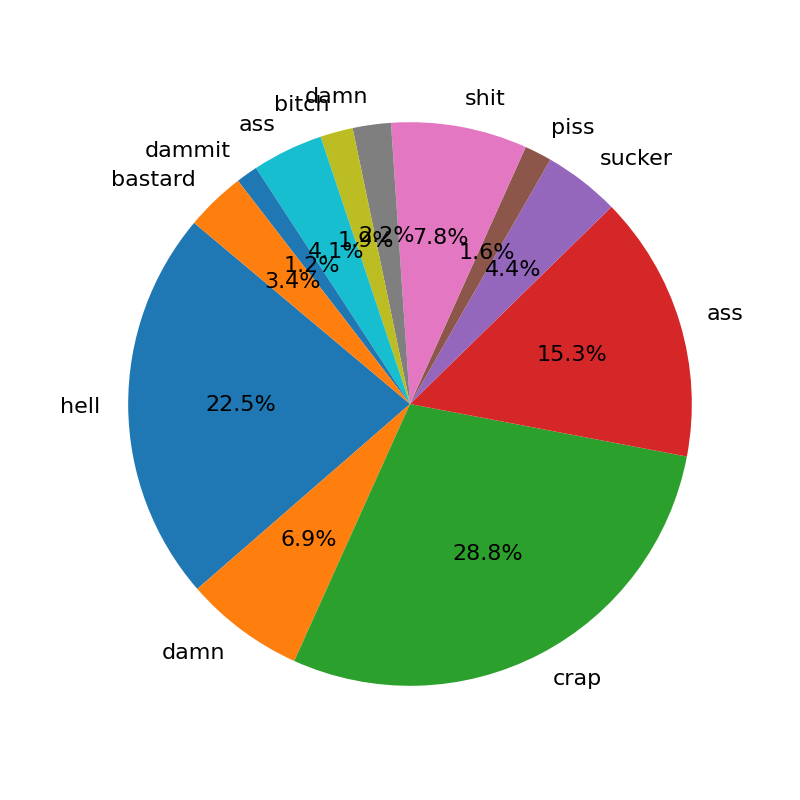
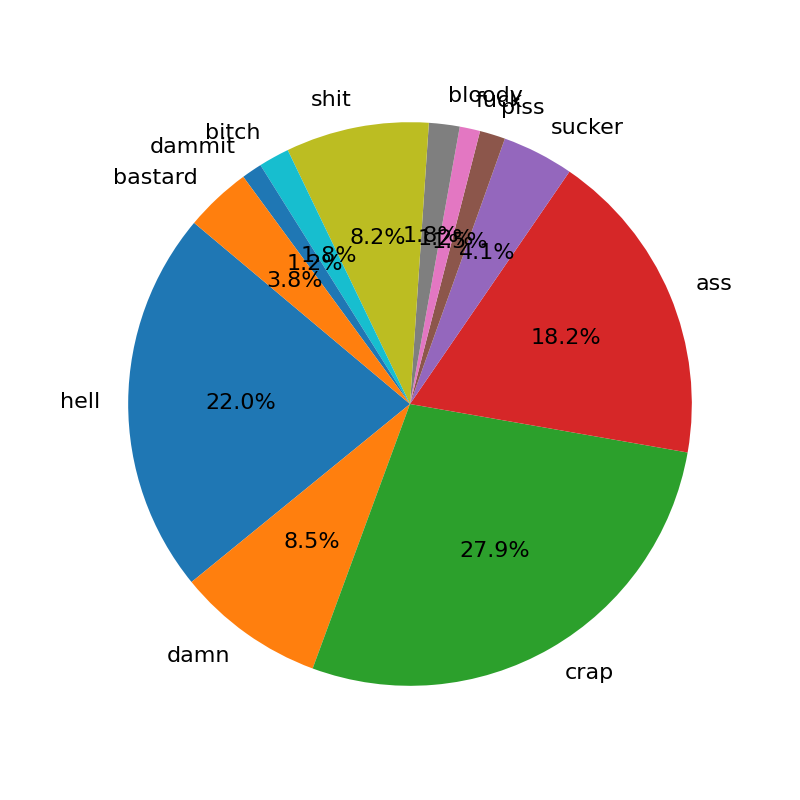
Monthly update: 2024-09-29

diff --git a/docs/static/js/app.js b/docs/static/js/app.js
@@ -41,12 +41,12 @@ async function fetch_markdown(url, table_elem, col_count, link = false) {
                     <div class="code-box">
                         <code><div class="line-num">${lineNumber}.</div>${code}</code>
                     </div>
-                    <footer class="text-muted small">Keyword: <i>"${keyword}"</i>. ${lastModifiedDate}</footer>
+                    <footer class="text-muted small">Keyword: <i>"${keyword}"</i></footer>
                 </div></a>
                 
             </div>`;
         });
-
+        document.getElementById('last-modified').innerHTML = lastModifiedDate;
         document.getElementById(table_elem).innerHTML = htmlTable;
     } catch (error) {
         console.error('Error fetching or converting Markdown:', error);

diff --git a/docs/index.html b/docs/index.html
@@ -34,6 +34,7 @@
                 <p>Compiling all the naughty naughty language in the Linux Kernel. Penguins included. Updates monthly.</p>
                 <p>We are reading from the stable kernel. <a href='https://git.kernel.org/pub/scm/linux/kernel/git/stable/linux-stable.git'>git.kernel.org</a></p>
                 <p><a href='https://github.com/tbwcjw/profanekernel/blob/main/LICENSE'>MIT License</a></p>
+                <p id="last-modified"></p>
                 
             </div>
         </div>

diff --git a/compile_results.py b/compile_results.py
@@ -40,7 +40,7 @@ def csv_to_md_table(csvf):
         for row in rows[1:]:
             markdown += "| " + " | ".join(row) + ' |\n'                 #row
     
-    markdown += f"\n\nLast updated: {datetime.now().strftime(f"%Y-%m-%d %H:%M:%S")}"
+    markdown += f"\n\nLast updated: {datetime.now().strftime('%Y-%m-%d %H:%M:%S')}"
     return markdown
 
 def write_to_readme(csvf, output):

diff --git a/main.py b/main.py
@@ -54,7 +54,7 @@ async def compile(result=None):
 async def main():
     pull_or_clone()
     result = await read.search_recurse(keywords_file, ignore_file, clone_dir, tree_url, csv_output, count_file, concurrent)
-    await compile()
+    await compile(result)
     
 
 if __name__ == "__main__":

diff --git a/results/PROFANITY.md b/results/PROFANITY.md
@@ -17,21 +17,21 @@
 | https://git.kernel.org/pub/scm/linux/kernel/git/stable/linux.git/tree/arch/arm64/kvm/vgic/vgic-irqfd.c | 126 | damn | * as long as the damn vgic is initialized. |
 | https://git.kernel.org/pub/scm/linux/kernel/git/stable/linux.git/tree/arch/arm64/lib/csum.c | 35 | piss | * however, have to be careful not to piss off KASAN, which means using |
 | https://git.kernel.org/pub/scm/linux/kernel/git/stable/linux.git/tree/arch/hexagon/kernel/smp.c | 28 | crap | * (which is prior to any of our smp_prepare_cpu crap), in order to set |
-| https://git.kernel.org/pub/scm/linux/kernel/git/stable/linux.git/tree/arch/hexagon/mm/init.c | 38 | Hell | * over until Hell freezes over.  Actual bound in years needs to be |
+| https://git.kernel.org/pub/scm/linux/kernel/git/stable/linux.git/tree/arch/hexagon/mm/init.c | 38 | hell | * over until Hell freezes over.  Actual bound in years needs to be |
 | https://git.kernel.org/pub/scm/linux/kernel/git/stable/linux.git/tree/arch/loongarch/lib/csum.c | 36 | piss | * however, have to be careful not to piss off KASAN, which means using |
 | https://git.kernel.org/pub/scm/linux/kernel/git/stable/linux.git/tree/arch/m68k/include/asm/sun3ints.h | 30 | fuck | /* master list of VME vectors -- don't fuck with this */ |
 | https://git.kernel.org/pub/scm/linux/kernel/git/stable/linux.git/tree/arch/m68k/include/asm/sun3xflop.h | 28 | crap | /* We don't need no stinkin' I/O port allocation crap. */ |
 | https://git.kernel.org/pub/scm/linux/kernel/git/stable/linux.git/tree/arch/m68k/mac/config.c | 593 | hell | * Quadra-style VIAs. A few models also have IDE from hell. |
 | https://git.kernel.org/pub/scm/linux/kernel/git/stable/linux.git/tree/arch/mips/dec/int-handler.S | 48 | hell | *    IRQ mask, that would make this routine slow as hell. |
-| https://git.kernel.org/pub/scm/linux/kernel/git/stable/linux.git/tree/arch/mips/dec/kn01-berr.c | 97 | Bloody | /* Bloody hardware doesn't record the address for reads... */ |
+| https://git.kernel.org/pub/scm/linux/kernel/git/stable/linux.git/tree/arch/mips/dec/kn01-berr.c | 97 | bloody | /* Bloody hardware doesn't record the address for reads... */ |
 | https://git.kernel.org/pub/scm/linux/kernel/git/stable/linux.git/tree/arch/mips/include/asm/mipsprom.h | 30 | shit | /* More PROM shit.  Probably has to do with VME RMW cycles??? */ |
-| https://git.kernel.org/pub/scm/linux/kernel/git/stable/linux.git/tree/arch/mips/include/asm/prefetch.h | 20 | Hell | * Hell (and the book on my shelf I can't open ...) know what the R8000 does. |
-| https://git.kernel.org/pub/scm/linux/kernel/git/stable/linux.git/tree/arch/mips/include/uapi/asm/bitfield.h | 13 | Damn | *  * Damn ...  bitfields depend from byteorder :-( |
+| https://git.kernel.org/pub/scm/linux/kernel/git/stable/linux.git/tree/arch/mips/include/asm/prefetch.h | 20 | hell | * Hell (and the book on my shelf I can't open ...) know what the R8000 does. |
+| https://git.kernel.org/pub/scm/linux/kernel/git/stable/linux.git/tree/arch/mips/include/uapi/asm/bitfield.h | 13 | damn | *  * Damn ...  bitfields depend from byteorder :-( |
 | https://git.kernel.org/pub/scm/linux/kernel/git/stable/linux.git/tree/arch/mips/kernel/genex.S | 72 | shit | * Big shit, we now may have two dirty primary cache lines for the same |
 | https://git.kernel.org/pub/scm/linux/kernel/git/stable/linux.git/tree/arch/mips/kernel/process.c | 657 | ass | * __get_wchan - a maintenance nightmare^W^Wpain in the ass ... |
 | https://git.kernel.org/pub/scm/linux/kernel/git/stable/linux.git/tree/arch/mips/kernel/unaligned.c | 573 | sucker | * cache coherence problem.  Die sucker, die ... |
-| https://git.kernel.org/pub/scm/linux/kernel/git/stable/linux.git/tree/arch/mips/kernel/unaligned.c | 1481 | sucker | * cache coherence problem.  Die sucker, die ... |
 | https://git.kernel.org/pub/scm/linux/kernel/git/stable/linux.git/tree/arch/mips/kernel/vmlinux.lds.S | 234 | crap | /* ABI crap starts here */ |
+| https://git.kernel.org/pub/scm/linux/kernel/git/stable/linux.git/tree/arch/mips/kernel/unaligned.c | 1481 | sucker | * cache coherence problem.  Die sucker, die ... |
 | https://git.kernel.org/pub/scm/linux/kernel/git/stable/linux.git/tree/arch/mips/mm/c-r4k.c | 1400 | bitch | * This is such a bitch, you'd think they would make it easy to do |
 | https://git.kernel.org/pub/scm/linux/kernel/git/stable/linux.git/tree/arch/mips/pci/fixup-ip32.c | 41 | crap | * right if there exists such a broken piece of crap. |
 | https://git.kernel.org/pub/scm/linux/kernel/git/stable/linux.git/tree/arch/powerpc/kernel/eeh_driver.c | 170 | ass | * This is just ass backwards. This maze has |
@@ -59,7 +59,7 @@
 | https://git.kernel.org/pub/scm/linux/kernel/git/stable/linux.git/tree/arch/sh/kernel/cpu/sh4/sq.c | 254 | hell | * queue, but considering the kobject hell we already have to deal with, |
 | https://git.kernel.org/pub/scm/linux/kernel/git/stable/linux.git/tree/arch/sparc/include/asm/floppy_32.h | 21 | crap | /* We don't need no stinkin' I/O port allocation crap. */ |
 | https://git.kernel.org/pub/scm/linux/kernel/git/stable/linux.git/tree/arch/sparc/kernel/pcic.c | 504 | shit | * to shit into regions like that. |
-| https://git.kernel.org/pub/scm/linux/kernel/git/stable/linux.git/tree/arch/sparc/kernel/traps_64.c | 315 | Shit | /* Shit... */ |
+| https://git.kernel.org/pub/scm/linux/kernel/git/stable/linux.git/tree/arch/sparc/kernel/traps_64.c | 315 | shit | /* Shit... */ |
 | https://git.kernel.org/pub/scm/linux/kernel/git/stable/linux.git/tree/arch/sparc/kernel/viohs.c | 683 | crap | * to be aware of this crap. |
 | https://git.kernel.org/pub/scm/linux/kernel/git/stable/linux.git/tree/arch/sparc/kernel/wof.S | 131 | hell | * and messy as all hell.  And difficult to follow if you |
 | https://git.kernel.org/pub/scm/linux/kernel/git/stable/linux.git/tree/arch/sparc/lib/checksum_32.S | 306 | shit | * give up.  I'm serious, I am going to kick the living shit |
@@ -70,14 +70,14 @@
 | https://git.kernel.org/pub/scm/linux/kernel/git/stable/linux.git/tree/arch/sparc/mm/srmmu.c | 1317 | crap | /* Clear any crap from the cache or else... */ |
 | https://git.kernel.org/pub/scm/linux/kernel/git/stable/linux.git/tree/arch/sparc/mm/ultra.S | 25 | shit | * in Microelectronics who refused to fix this shit. |
 | https://git.kernel.org/pub/scm/linux/kernel/git/stable/linux.git/tree/arch/um/drivers/daemon_kern.c | 32 | crap | /* We will free this pointer. If it contains crap we're burned. */ |
-| https://git.kernel.org/pub/scm/linux/kernel/git/stable/linux.git/tree/arch/x86/include/asm/debugreg.h | 26 | Damn | unsigned long val = 0;	/* Damn you, gcc! */ |
+| https://git.kernel.org/pub/scm/linux/kernel/git/stable/linux.git/tree/arch/x86/include/asm/debugreg.h | 26 | damn | unsigned long val = 0;	/* Damn you, gcc! */ |
 | https://git.kernel.org/pub/scm/linux/kernel/git/stable/linux.git/tree/arch/x86/include/asm/nospec-branch.h | 540 | hell | * (Implemented as CPP macros due to header hell.) |
-| https://git.kernel.org/pub/scm/linux/kernel/git/stable/linux.git/tree/arch/x86/include/asm/pci_x86.h | 94 | Crap | u32 miniport_data;		/* Crap */ |
+| https://git.kernel.org/pub/scm/linux/kernel/git/stable/linux.git/tree/arch/x86/include/asm/pci_x86.h | 94 | crap | u32 miniport_data;		/* Crap */ |
 | https://git.kernel.org/pub/scm/linux/kernel/git/stable/linux.git/tree/arch/x86/include/asm/preempt.h | 41 | hell | * must be macros to avoid header recursion hell |
 | https://git.kernel.org/pub/scm/linux/kernel/git/stable/linux.git/tree/arch/x86/include/asm/ptrace.h | 385 | hell | /* To avoid include hell, we can't include uaccess.h */ |
 | https://git.kernel.org/pub/scm/linux/kernel/git/stable/linux.git/tree/arch/x86/include/asm/trace/irq_vectors.h | 79 | hell | * The ifdef is required because that tracepoint macro hell emits tracepoint |
 | https://git.kernel.org/pub/scm/linux/kernel/git/stable/linux.git/tree/arch/x86/kernel/uprobes.c | 510 | hell | *   Evil SSE4.2 string comparison ops from hell. |
-| https://git.kernel.org/pub/scm/linux/kernel/git/stable/linux.git/tree/arch/x86/kernel/vm86_32.c | 671 | Damn | * Damn. This is incorrect: the 'sti' instruction should actually |
+| https://git.kernel.org/pub/scm/linux/kernel/git/stable/linux.git/tree/arch/x86/kernel/vm86_32.c | 671 | damn | * Damn. This is incorrect: the 'sti' instruction should actually |
 | https://git.kernel.org/pub/scm/linux/kernel/git/stable/linux.git/tree/arch/x86/kernel/cpu/mce/core.c | 1907 | crap | * by default and leave crap in there. Don't log: |
 | https://git.kernel.org/pub/scm/linux/kernel/git/stable/linux.git/tree/arch/x86/pci/irq.c | 433 | damn | * ALI pirq entries are damn ugly, and completely undocumented. |
 | https://git.kernel.org/pub/scm/linux/kernel/git/stable/linux.git/tree/arch/x86/platform/efi/efi_64.c | 313 | crap | * to virtual mode and would otherwise crap on us. |
@@ -91,7 +91,7 @@
 | https://git.kernel.org/pub/scm/linux/kernel/git/stable/linux.git/tree/Documentation/filesystems/ramfs-rootfs-initramfs.rst | 331 | hell | 5) Al Viro made the decision (quote: "tar is ugly as hell and not going to be |
 | https://git.kernel.org/pub/scm/linux/kernel/git/stable/linux.git/tree/Documentation/kernel-hacking/hacking.rst | 797 | damn | * Sun people can't spell worth damn. "compatability" indeed. |
 | https://git.kernel.org/pub/scm/linux/kernel/git/stable/linux.git/tree/Documentation/kernel-hacking/hacking.rst | 816 | shit | * give up.  I'm serious, I am going to kick the living shit |
-| https://git.kernel.org/pub/scm/linux/kernel/git/stable/linux.git/tree/Documentation/networking/arcnet-hardware.rst | 2442 | ASS | and "-2 46-86" beside C2. Between C1 and C6 "ASS 'Y 300163" and "@1986 |
+| https://git.kernel.org/pub/scm/linux/kernel/git/stable/linux.git/tree/Documentation/networking/arcnet-hardware.rst | 2442 | ass | and "-2 46-86" beside C2. Between C1 and C6 "ASS 'Y 300163" and "@1986 |
 | https://git.kernel.org/pub/scm/linux/kernel/git/stable/linux.git/tree/Documentation/process/coding-style.rst | 862 | hell | might look like a good thing, but it's confusing as hell when one reads the |
 | https://git.kernel.org/pub/scm/linux/kernel/git/stable/linux.git/tree/Documentation/process/handling-regressions.rst | 672 | dammit | And dammit, we upgrade the kernel ALL THE TIME without upgrading any |
 | https://git.kernel.org/pub/scm/linux/kernel/git/stable/linux.git/tree/Documentation/process/management-style.rst | 67 | bullshit | And people will even see that as true leadership (*cough* bullshit |
@@ -130,11 +130,11 @@
 | https://git.kernel.org/pub/scm/linux/kernel/git/stable/linux.git/tree/drivers/gpu/drm/nouveau/include/nvkm/subdev/clk.h | 113 | shit | *     bat-shit insane what-was-nouveau_hw.c code |
 | https://git.kernel.org/pub/scm/linux/kernel/git/stable/linux.git/tree/drivers/gpu/drm/nouveau/nvkm/subdev/instmem/nv40.c | 203 | crap | * 0x21000-0x40000: padding and some unknown crap |
 | https://git.kernel.org/pub/scm/linux/kernel/git/stable/linux.git/tree/drivers/gpu/drm/nouveau/nvkm/subdev/pmu/fuc/macros.fuc | 49 | fuck | #define NV_PPWR_INTR_EN_CLR_MASK                    /* fuck i hate envyas */ -1 |
-| https://git.kernel.org/pub/scm/linux/kernel/git/stable/linux.git/tree/drivers/greybus/es2.c | 330 | Crap | * Crap, pool is empty, complain to the syslog and go allocate one |
+| https://git.kernel.org/pub/scm/linux/kernel/git/stable/linux.git/tree/drivers/greybus/es2.c | 330 | crap | * Crap, pool is empty, complain to the syslog and go allocate one |
 | https://git.kernel.org/pub/scm/linux/kernel/git/stable/linux.git/tree/drivers/hwmon/abituguru.c | 1306 | crap | * anyways. If we read sensors/pwms not there we'll just read crap |
 | https://git.kernel.org/pub/scm/linux/kernel/git/stable/linux.git/tree/drivers/infiniband/hw/qib/qib_file_ops.c | 65 | shit | * This is really, really weird shit - write() and writev() here |
-| https://git.kernel.org/pub/scm/linux/kernel/git/stable/linux.git/tree/drivers/input/serio/hp_sdc_mlc.c | 111 | Bastard | printk(KERN_WARNING PREFIX "Bastard SDC reconfigured loop!\n"); |
-| https://git.kernel.org/pub/scm/linux/kernel/git/stable/linux.git/tree/drivers/input/serio/hp_sdc_mlc.c | 124 | Bastard | printk(KERN_WARNING PREFIX "Bastard SDC decided to reconfigure loop!\n"); |
+| https://git.kernel.org/pub/scm/linux/kernel/git/stable/linux.git/tree/drivers/input/serio/hp_sdc_mlc.c | 111 | bastard | printk(KERN_WARNING PREFIX "Bastard SDC reconfigured loop!\n"); |
+| https://git.kernel.org/pub/scm/linux/kernel/git/stable/linux.git/tree/drivers/input/serio/hp_sdc_mlc.c | 124 | bastard | printk(KERN_WARNING PREFIX "Bastard SDC decided to reconfigure loop!\n"); |
 | https://git.kernel.org/pub/scm/linux/kernel/git/stable/linux.git/tree/drivers/iommu/arm/arm-smmu-v3/arm-smmu-v3.c | 3953 | crap | /* CR2 (random crap) */ |
 | https://git.kernel.org/pub/scm/linux/kernel/git/stable/linux.git/tree/drivers/ipack/devices/scc2698.h | 27 | crap | u8 junk[8]; /* other crap for block control */ |
 | https://git.kernel.org/pub/scm/linux/kernel/git/stable/linux.git/tree/drivers/ipack/devices/scc2698.h | 34 | crap | u8 junk[8]; /* other crap for block control */ |
@@ -144,11 +144,11 @@
 | https://git.kernel.org/pub/scm/linux/kernel/git/stable/linux.git/tree/drivers/media/dvb-core/dvb_frontend.c | 2206 | crap | * return crap, if they don't check if the data is available |
 | https://git.kernel.org/pub/scm/linux/kernel/git/stable/linux.git/tree/drivers/media/dvb-core/dvb_frontend.c | 2387 | crap | * return crap, if they don't check if the data is available |
 | https://git.kernel.org/pub/scm/linux/kernel/git/stable/linux.git/tree/drivers/media/dvb-core/dvb_frontend.c | 2422 | crap | * return crap, if they don't check if the data is available |
-| https://git.kernel.org/pub/scm/linux/kernel/git/stable/linux.git/tree/drivers/media/dvb-frontends/drx39xyj/drx_driver.h | 907 | ASS | #define DRX_CFG_AUD_AUTOSOUND       (DRX_CFG_BASE +  8)	/* ASS & ASC         */ |
-| https://git.kernel.org/pub/scm/linux/kernel/git/stable/linux.git/tree/drivers/media/dvb-frontends/drx39xyj/drx_driver.h | 908 | ASS | #define DRX_CFG_AUD_ASS_THRES       (DRX_CFG_BASE +  9)	/* ASS Thresholds    */ |
-| https://git.kernel.org/pub/scm/linux/kernel/git/stable/linux.git/tree/drivers/media/dvb-frontends/drx39xyj/drx_driver.h | 1567 | ASS | u16 a2;	/* A2 Threshold for ASS configuration */ |
-| https://git.kernel.org/pub/scm/linux/kernel/git/stable/linux.git/tree/drivers/media/dvb-frontends/drx39xyj/drx_driver.h | 1568 | ASS | u16 btsc;	/* BTSC Threshold for ASS configuration */ |
-| https://git.kernel.org/pub/scm/linux/kernel/git/stable/linux.git/tree/drivers/media/dvb-frontends/drx39xyj/drx_driver.h | 1569 | ASS | u16 nicam;	/* Nicam Threshold for ASS configuration */ |
+| https://git.kernel.org/pub/scm/linux/kernel/git/stable/linux.git/tree/drivers/media/dvb-frontends/drx39xyj/drx_driver.h | 907 | ass | #define DRX_CFG_AUD_AUTOSOUND       (DRX_CFG_BASE +  8)	/* ASS & ASC         */ |
+| https://git.kernel.org/pub/scm/linux/kernel/git/stable/linux.git/tree/drivers/media/dvb-frontends/drx39xyj/drx_driver.h | 908 | ass | #define DRX_CFG_AUD_ASS_THRES       (DRX_CFG_BASE +  9)	/* ASS Thresholds    */ |
+| https://git.kernel.org/pub/scm/linux/kernel/git/stable/linux.git/tree/drivers/media/dvb-frontends/drx39xyj/drx_driver.h | 1567 | ass | u16 a2;	/* A2 Threshold for ASS configuration */ |
+| https://git.kernel.org/pub/scm/linux/kernel/git/stable/linux.git/tree/drivers/media/dvb-frontends/drx39xyj/drx_driver.h | 1568 | ass | u16 btsc;	/* BTSC Threshold for ASS configuration */ |
+| https://git.kernel.org/pub/scm/linux/kernel/git/stable/linux.git/tree/drivers/media/dvb-frontends/drx39xyj/drx_driver.h | 1569 | ass | u16 nicam;	/* Nicam Threshold for ASS configuration */ |
 | https://git.kernel.org/pub/scm/linux/kernel/git/stable/linux.git/tree/drivers/media/i2c/ov7670.c | 1038 | ass | * COM7 is a pain in the ass, it doesn't like to be read then |
 | https://git.kernel.org/pub/scm/linux/kernel/git/stable/linux.git/tree/drivers/media/i2c/ov7670.c | 1285 | crap | * Weird crap seems to exist in the upper part of |
 | https://git.kernel.org/pub/scm/linux/kernel/git/stable/linux.git/tree/drivers/media/pci/solo6x10/solo6x10-core.c | 566 | crap | /* Undocumented crap */ |
@@ -161,50 +161,50 @@
 | https://git.kernel.org/pub/scm/linux/kernel/git/stable/linux.git/tree/drivers/net/dsa/sja1105/sja1105_tas.c | 93 | hell | /* Lo and behold: the egress scheduler from hell. |
 | https://git.kernel.org/pub/scm/linux/kernel/git/stable/linux.git/tree/drivers/net/ethernet/alteon/acenic.c | 518 | damn | * addresses but who gives a damn. |
 | https://git.kernel.org/pub/scm/linux/kernel/git/stable/linux.git/tree/drivers/net/ethernet/amd/declance.c | 33 | shit | *      v0.007: Big shit. The LANCE seems to use a different DMA mechanism to |
-| https://git.kernel.org/pub/scm/linux/kernel/git/stable/linux.git/tree/drivers/net/ethernet/amd/sunlance.c | 52 | Shit | *		  This was the sun4c killer. Shit, stupid bug. |
+| https://git.kernel.org/pub/scm/linux/kernel/git/stable/linux.git/tree/drivers/net/ethernet/amd/sunlance.c | 52 | shit | *		  This was the sun4c killer. Shit, stupid bug. |
 | https://git.kernel.org/pub/scm/linux/kernel/git/stable/linux.git/tree/drivers/net/ethernet/broadcom/bnx2x/bnx2x_link.c | 4347 | shit | * it means the shit hit the fan. |
 | https://git.kernel.org/pub/scm/linux/kernel/git/stable/linux.git/tree/drivers/net/ethernet/cortina/gemini.c | 1712 | crap | /* Oh, crap */ |
 | https://git.kernel.org/pub/scm/linux/kernel/git/stable/linux.git/tree/drivers/net/ethernet/dec/tulip/tulip_core.c | 1548 | damn | sa_offset = 2;		/* Grrr, damn Matrox boards. */ |
 | https://git.kernel.org/pub/scm/linux/kernel/git/stable/linux.git/tree/drivers/net/ethernet/marvell/sky2.c | 2576 | crap | * to handle crap frames. |
 | https://git.kernel.org/pub/scm/linux/kernel/git/stable/linux.git/tree/drivers/net/ethernet/qlogic/qla3xxx.h | 869 | crap | u16 version_and_numPorts; /* together to avoid endianness crap */ |
 | https://git.kernel.org/pub/scm/linux/kernel/git/stable/linux.git/tree/drivers/net/ethernet/smsc/smc91x.c | 430 | bloody | /* bloody hardware */ |
+| https://git.kernel.org/pub/scm/linux/kernel/git/stable/linux.git/tree/drivers/net/ethernet/sun/sunhme.h | 275 | ass | * But.... THIS THING IS A PAIN IN THE ASS TO PROGRAM! |
 | https://git.kernel.org/pub/scm/linux/kernel/git/stable/linux.git/tree/drivers/net/ethernet/sun/sunhme.c | 958 | shit | /* Remember: "Different name, same old buggy as shit hardware." */ |
-| https://git.kernel.org/pub/scm/linux/kernel/git/stable/linux.git/tree/drivers/net/ethernet/sun/sunhme.h | 275 | ASS | * But.... THIS THING IS A PAIN IN THE ASS TO PROGRAM! |
 | https://git.kernel.org/pub/scm/linux/kernel/git/stable/linux.git/tree/drivers/net/ethernet/sun/sunhme.c | 985 | fuck | /* Only Sun can take such nice parts and fuck up the programming interface |
 | https://git.kernel.org/pub/scm/linux/kernel/git/stable/linux.git/tree/drivers/net/fddi/skfp/h/supern_2.h | 774 | ass | #define	PL_LOOPBACK	0x0080		/* it cause the /LPBCK pin ass. low */ |
 | https://git.kernel.org/pub/scm/linux/kernel/git/stable/linux.git/tree/drivers/net/fddi/skfp/h/supern_2.h | 775 | ass | #define	PL_MINI_CTR_INT 0x0100		/* partially contr. when bit is ass. */ |
 | https://git.kernel.org/pub/scm/linux/kernel/git/stable/linux.git/tree/drivers/net/hamradio/6pack.c | 468 | crap | default:			/* gcc oh piece-o-crap ... */ |
-| https://git.kernel.org/pub/scm/linux/kernel/git/stable/linux.git/tree/drivers/net/hamradio/scc.c | 1443 | Damn | * Damn, where is my Z8530 programming manual...? |
+| https://git.kernel.org/pub/scm/linux/kernel/git/stable/linux.git/tree/drivers/net/hamradio/scc.c | 1443 | damn | * Damn, where is my Z8530 programming manual...? |
 | https://git.kernel.org/pub/scm/linux/kernel/git/stable/linux.git/tree/drivers/net/wan/farsync.h | 344 | ass | * one of these then I've been an ass |
 | https://git.kernel.org/pub/scm/linux/kernel/git/stable/linux.git/tree/drivers/net/wireless/ath/ath5k/desc.c | 197 | crap | * WEP crap |
 | https://git.kernel.org/pub/scm/linux/kernel/git/stable/linux.git/tree/drivers/net/wireless/ath/ath5k/desc.c | 333 | crap | * WEP crap |
 | https://git.kernel.org/pub/scm/linux/kernel/git/stable/linux.git/tree/drivers/net/wireless/broadcom/b43/phy_n.h | 679 | retard | #define B43_NPHY_PHYSTAT_ADVRET			B43_PHY_N(0x1F3) /* PHY stats ADV retard */ |
 | https://git.kernel.org/pub/scm/linux/kernel/git/stable/linux.git/tree/drivers/net/wireless/broadcom/b43/wa.c | 127 | retard | static void b43_wa_art(struct b43_wldev *dev) /* ADV retard table */ |
-| https://git.kernel.org/pub/scm/linux/kernel/git/stable/linux.git/tree/drivers/net/wireless/broadcom/brcm80211/brcmsmac/d11.h | 1500 | Retard | /* Advance Retard */ |
+| https://git.kernel.org/pub/scm/linux/kernel/git/stable/linux.git/tree/drivers/net/wireless/broadcom/brcm80211/brcmsmac/d11.h | 1500 | retard | /* Advance Retard */ |
 | https://git.kernel.org/pub/scm/linux/kernel/git/stable/linux.git/tree/drivers/net/wireless/broadcom/brcm80211/brcmsmac/main.c | 7864 | hell | /* ..now really unleash hell (allow the MAC out of suspend) */ |
 | https://git.kernel.org/pub/scm/linux/kernel/git/stable/linux.git/tree/drivers/net/wireless/intel/iwlegacy/3945-mac.c | 3300 | shit | /* all this shit doesn't belong into sysfs anyway */ |
 | https://git.kernel.org/pub/scm/linux/kernel/git/stable/linux.git/tree/drivers/net/wireless/silabs/wfx/traces.h | 21 | hell | /* The hell below need some explanations. For each symbolic number, we need to define it with |
 | https://git.kernel.org/pub/scm/linux/kernel/git/stable/linux.git/tree/drivers/parport/parport_pc.c | 3131 | crap | *	Piles of crap below pretend to be a parser for module and kernel |
 | https://git.kernel.org/pub/scm/linux/kernel/git/stable/linux.git/tree/drivers/pci/pci-driver.c | 497 | crap | * horrible the crap we have to deal with is when we are awake... |
 | https://git.kernel.org/pub/scm/linux/kernel/git/stable/linux.git/tree/drivers/pinctrl/aspeed/pinmux-aspeed.h | 485 | hell | /* Macro hell */ |
-| https://git.kernel.org/pub/scm/linux/kernel/git/stable/linux.git/tree/drivers/s390/char/tape_core.c | 76 | ASS | [TO_DIS] = "DIS",	[TO_ASSIGN] = "ASS", |
-| https://git.kernel.org/pub/scm/linux/kernel/git/stable/linux.git/tree/drivers/s390/net/lcs.c | 1404 | Bloody | /* Bloody io subsystem tells us lies about cpa... */ |
-| https://git.kernel.org/pub/scm/linux/kernel/git/stable/linux.git/tree/drivers/scsi/aha152x.c | 216 | damn | * first "damn thing doesn't work" version |
+| https://git.kernel.org/pub/scm/linux/kernel/git/stable/linux.git/tree/drivers/s390/char/tape_core.c | 76 | ass | [TO_DIS] = "DIS",	[TO_ASSIGN] = "ASS", |
+| https://git.kernel.org/pub/scm/linux/kernel/git/stable/linux.git/tree/drivers/s390/net/lcs.c | 1404 | bloody | /* Bloody io subsystem tells us lies about cpa... */ |
 | https://git.kernel.org/pub/scm/linux/kernel/git/stable/linux.git/tree/drivers/scsi/aha1542.c | 956 | crap | * the strategy handler takes care of that crap. |
+| https://git.kernel.org/pub/scm/linux/kernel/git/stable/linux.git/tree/drivers/scsi/aha152x.c | 216 | damn | * first "damn thing doesn't work" version |
 | https://git.kernel.org/pub/scm/linux/kernel/git/stable/linux.git/tree/drivers/scsi/dc395x.c | 3498 | crap | /* KG: Can this prevent crap sense data ? */ |
 | https://git.kernel.org/pub/scm/linux/kernel/git/stable/linux.git/tree/drivers/scsi/qla1280.c | 3238 | damn | * This can be called from interrupt context, damn it!!! |
-| https://git.kernel.org/pub/scm/linux/kernel/git/stable/linux.git/tree/drivers/scsi/script_asm.pl | 763 | hell | # what the hell? |
 | https://git.kernel.org/pub/scm/linux/kernel/git/stable/linux.git/tree/drivers/scsi/qlogicpti.c | 810 | bullshit | if (qpti->clock == 0) /* bullshit */ |
+| https://git.kernel.org/pub/scm/linux/kernel/git/stable/linux.git/tree/drivers/scsi/script_asm.pl | 763 | hell | # what the hell? |
 | https://git.kernel.org/pub/scm/linux/kernel/git/stable/linux.git/tree/drivers/staging/media/atomisp/include/linux/atomisp.h | 394 | shit | /* GDC shit size [BQ] */ |
 | https://git.kernel.org/pub/scm/linux/kernel/git/stable/linux.git/tree/drivers/tty/serial/pmac_zilog.c | 1435 | crap | * shadows so we don't write crap there before baud rate is |
 | https://git.kernel.org/pub/scm/linux/kernel/git/stable/linux.git/tree/drivers/tty/serial/serial_core.c | 1032 | bitch | * instead of clearing it, then bitch about it. |
 | https://git.kernel.org/pub/scm/linux/kernel/git/stable/linux.git/tree/drivers/tty/serial/sunsu.c | 930 | crap | * splitting all the OBP probing crap from the UART probing. |
 | https://git.kernel.org/pub/scm/linux/kernel/git/stable/linux.git/tree/drivers/tty/serial/8250/8250_pci.c | 676 | hell | * Ugh, this is ugly as all hell --- TYT |
-| https://git.kernel.org/pub/scm/linux/kernel/git/stable/linux.git/tree/drivers/usb/fotg210/fotg210-hcd.c | 2882 | ASS | /* Don't start the schedule until ASS is 0 */ |
-| https://git.kernel.org/pub/scm/linux/kernel/git/stable/linux.git/tree/drivers/usb/fotg210/fotg210-hcd.c | 2895 | ASS | /* Don't turn off the schedule until ASS is 1 */ |
-| https://git.kernel.org/pub/scm/linux/kernel/git/stable/linux.git/tree/drivers/usb/host/ehci-hcd.c | 639 | ASS | /* For Aspeed, STS_HALT also depends on ASS/PSS status. |
-| https://git.kernel.org/pub/scm/linux/kernel/git/stable/linux.git/tree/drivers/usb/host/ehci-q.c | 958 | ASS | /* Don't start the schedule until ASS is 0 */ |
-| https://git.kernel.org/pub/scm/linux/kernel/git/stable/linux.git/tree/drivers/usb/host/ehci-q.c | 972 | ASS | /* Don't turn off the schedule until ASS is 1 */ |
+| https://git.kernel.org/pub/scm/linux/kernel/git/stable/linux.git/tree/drivers/usb/fotg210/fotg210-hcd.c | 2882 | ass | /* Don't start the schedule until ASS is 0 */ |
+| https://git.kernel.org/pub/scm/linux/kernel/git/stable/linux.git/tree/drivers/usb/fotg210/fotg210-hcd.c | 2895 | ass | /* Don't turn off the schedule until ASS is 1 */ |
+| https://git.kernel.org/pub/scm/linux/kernel/git/stable/linux.git/tree/drivers/usb/host/ehci-hcd.c | 639 | ass | /* For Aspeed, STS_HALT also depends on ASS/PSS status. |
+| https://git.kernel.org/pub/scm/linux/kernel/git/stable/linux.git/tree/drivers/usb/host/ehci-q.c | 958 | ass | /* Don't start the schedule until ASS is 0 */ |
+| https://git.kernel.org/pub/scm/linux/kernel/git/stable/linux.git/tree/drivers/usb/host/ehci-q.c | 972 | ass | /* Don't turn off the schedule until ASS is 1 */ |
 | https://git.kernel.org/pub/scm/linux/kernel/git/stable/linux.git/tree/drivers/usb/storage/shuttle_usbat.c | 1347 | bloody | if (buffer == NULL) /* bloody hell! */ |
 | https://git.kernel.org/pub/scm/linux/kernel/git/stable/linux.git/tree/drivers/usb/storage/shuttle_usbat.c | 1347 | hell | if (buffer == NULL) /* bloody hell! */ |
 | https://git.kernel.org/pub/scm/linux/kernel/git/stable/linux.git/tree/drivers/video/fbdev/au1200fb.c | 1530 | damn | damn as to what the monitor specs are (the panel itself does, but that |
@@ -223,9 +223,9 @@
 | https://git.kernel.org/pub/scm/linux/kernel/git/stable/linux.git/tree/fs/namespace.c | 770 | bastard | int res = __legitimize_mnt(bastard, seq); |
 | https://git.kernel.org/pub/scm/linux/kernel/git/stable/linux.git/tree/fs/namespace.c | 775 | bastard | mntput(bastard); |
 | https://git.kernel.org/pub/scm/linux/kernel/git/stable/linux.git/tree/fs/namespace.c | 4025 | sucker | /* lock the sucker */ |
-| https://git.kernel.org/pub/scm/linux/kernel/git/stable/linux.git/tree/fs/super.c | 1733 | Bollocks | * then a chunk of this can be removed.  [Bollocks -- AV] |
+| https://git.kernel.org/pub/scm/linux/kernel/git/stable/linux.git/tree/fs/super.c | 1733 | bollocks | * then a chunk of this can be removed.  [Bollocks -- AV] |
 | https://git.kernel.org/pub/scm/linux/kernel/git/stable/linux.git/tree/fs/adfs/dir_f.c | 66 | bitch | * assembler, but a bitch in C...  This is one |
-| https://git.kernel.org/pub/scm/linux/kernel/git/stable/linux.git/tree/fs/affs/Changes | 243 | Damn | 30 characters. (Damn it! This kind of bug |
+| https://git.kernel.org/pub/scm/linux/kernel/git/stable/linux.git/tree/fs/affs/Changes | 243 | damn | 30 characters. (Damn it! This kind of bug |
 | https://git.kernel.org/pub/scm/linux/kernel/git/stable/linux.git/tree/fs/bcachefs/btree_gc.h | 30 | crap | * position inside its cmpxchg loop, so crap magically works). |
 | https://git.kernel.org/pub/scm/linux/kernel/git/stable/linux.git/tree/fs/bcachefs/btree_gc.c | 1091 | crap | *    various other crap: everything needs to agree on the ordering |
 | https://git.kernel.org/pub/scm/linux/kernel/git/stable/linux.git/tree/fs/btrfs/file.c | 3084 | crap | /* Make sure we aren't being give some crap mode */ |
@@ -250,7 +250,7 @@
 | https://git.kernel.org/pub/scm/linux/kernel/git/stable/linux.git/tree/include/uapi/sound/asound.h | 63 | shit | unsigned char db5_dminh_lsv; /* downmix inhibit & level-shit values */ |
 | https://git.kernel.org/pub/scm/linux/kernel/git/stable/linux.git/tree/kernel/audit_tree.c | 85 | sucker | * MSB of that sucker is stolen to mark taggings that we might have to |
 | https://git.kernel.org/pub/scm/linux/kernel/git/stable/linux.git/tree/kernel/fork.c | 12 | bitch | * management can be a bitch. See 'mm/memory.c': 'copy_page_range()' |
-| https://git.kernel.org/pub/scm/linux/kernel/git/stable/linux.git/tree/kernel/panic.c | 505 | CRAP | TAINT_FLAG(CRAP,			'C', ' ', true), |
+| https://git.kernel.org/pub/scm/linux/kernel/git/stable/linux.git/tree/kernel/panic.c | 505 | crap | TAINT_FLAG(CRAP,			'C', ' ', true), |
 | https://git.kernel.org/pub/scm/linux/kernel/git/stable/linux.git/tree/kernel/params.c | 214 | bastard | /* Lazy bastard, eh? */ |
 | https://git.kernel.org/pub/scm/linux/kernel/git/stable/linux.git/tree/kernel/events/internal.h | 34 | crap | /* poll crap */ |
 | https://git.kernel.org/pub/scm/linux/kernel/git/stable/linux.git/tree/kernel/irq/irqdomain.c | 932 | hell | * don't do it again, or hell will break loose. |
@@ -259,7 +259,7 @@
 | https://git.kernel.org/pub/scm/linux/kernel/git/stable/linux.git/tree/kernel/printk/printk.c | 225 | crap | * trailing crap... |
 | https://git.kernel.org/pub/scm/linux/kernel/git/stable/linux.git/tree/kernel/sched/clock.c | 439 | crap | * TSC to be unstable, any computation will be computing crap. |
 | https://git.kernel.org/pub/scm/linux/kernel/git/stable/linux.git/tree/kernel/sched/core.c | 5385 | bollocks | * IO-wait accounting, and how it's mostly bollocks (on SMP). |
-| https://git.kernel.org/pub/scm/linux/kernel/git/stable/linux.git/tree/kernel/sched/fair.c | 4757 | Hell | * Hell(o) Nasty stuff.. we need to recompute _sum based on the new |
+| https://git.kernel.org/pub/scm/linux/kernel/git/stable/linux.git/tree/kernel/sched/fair.c | 4757 | hell | * Hell(o) Nasty stuff.. we need to recompute _sum based on the new |
 | https://git.kernel.org/pub/scm/linux/kernel/git/stable/linux.git/tree/kernel/time/posix-cpu-timers.c | 1193 | hell | * keep the callback static and to avoid header recursion hell. |
 | https://git.kernel.org/pub/scm/linux/kernel/git/stable/linux.git/tree/lib/btree.c | 9 | ass | * see http://programming.kicks-ass.net/kernel-patches/vma_lookup/btree.patch |
 | https://git.kernel.org/pub/scm/linux/kernel/git/stable/linux.git/tree/lib/test_linear_ranges.c | 12 | hell | /* First things first. I deeply dislike unit-tests. I have seen all the hell |
@@ -269,7 +269,7 @@
 | https://git.kernel.org/pub/scm/linux/kernel/git/stable/linux.git/tree/net/8021q/vlan.c | 549 | sucker | /* Null terminate this sucker, just in case. */ |
 | https://git.kernel.org/pub/scm/linux/kernel/git/stable/linux.git/tree/net/appletalk/ddp.c | 1431 | crap | * Size check to see if ddp->deh_len was crap |
 | https://git.kernel.org/pub/scm/linux/kernel/git/stable/linux.git/tree/net/ceph/messenger_v1.c | 69 | hell | msg.msg_flags |= MSG_EOR;  /* superfluous, but what the hell */ |
-| https://git.kernel.org/pub/scm/linux/kernel/git/stable/linux.git/tree/net/core/skbuff.c | 5335 | Fuck | /* Fuck, we are miserable poor guys... */ |
+| https://git.kernel.org/pub/scm/linux/kernel/git/stable/linux.git/tree/net/core/skbuff.c | 5335 | fuck | /* Fuck, we are miserable poor guys... */ |
 | https://git.kernel.org/pub/scm/linux/kernel/git/stable/linux.git/tree/net/ipv4/ah4.c | 97 | crap | case 0x85:	/* Some "Extended Security" crap. */ |
 | https://git.kernel.org/pub/scm/linux/kernel/git/stable/linux.git/tree/net/ipv4/ip_input.c | 28 | crap | *					new frame it queues. Still crap because |
 | https://git.kernel.org/pub/scm/linux/kernel/git/stable/linux.git/tree/net/ipv4/ip_gre.c | 136 | hell | what the hell these idiots break standards established |
@@ -282,23 +282,23 @@
 | https://git.kernel.org/pub/scm/linux/kernel/git/stable/linux.git/tree/net/llc/llc_input.c | 173 | crap | * When the interface is in promisc. mode, drop all the crap that it |
 | https://git.kernel.org/pub/scm/linux/kernel/git/stable/linux.git/tree/net/netfilter/nf_conntrack_ftp.c | 212 | crap | else { /* Some other crap */ |
 | https://git.kernel.org/pub/scm/linux/kernel/git/stable/linux.git/tree/net/netfilter/xt_hashlimit.c | 71 | crap | /* hash table crap */ |
-| https://git.kernel.org/pub/scm/linux/kernel/git/stable/linux.git/tree/net/netfilter/xt_string.c | 44 | Damn | /* Damn, can't handle this case properly with iptables... */ |
+| https://git.kernel.org/pub/scm/linux/kernel/git/stable/linux.git/tree/net/netfilter/xt_string.c | 44 | damn | /* Damn, can't handle this case properly with iptables... */ |
 | https://git.kernel.org/pub/scm/linux/kernel/git/stable/linux.git/tree/net/rds/ib_cm.c | 730 | crap | /* Even if len is crap *now* I still want to check it. -ASG */ |
 | https://git.kernel.org/pub/scm/linux/kernel/git/stable/linux.git/tree/net/rxrpc/rtt.c | 120 | shit | *    all the algo is pure shit and should be replaced |
-| https://git.kernel.org/pub/scm/linux/kernel/git/stable/linux.git/tree/net/unix/garbage.c | 58 | Damn | *		Damn. Added missing check for ->dead in listen queues scanning. |
+| https://git.kernel.org/pub/scm/linux/kernel/git/stable/linux.git/tree/net/unix/garbage.c | 58 | damn | *		Damn. Added missing check for ->dead in listen queues scanning. |
 | https://git.kernel.org/pub/scm/linux/kernel/git/stable/linux.git/tree/sound/aoa/soundbus/i2sbus/core.c | 250 | crap | * useless crap (ugh ugh ugh). We work around that here by calling |
 | https://git.kernel.org/pub/scm/linux/kernel/git/stable/linux.git/tree/sound/isa/wavefront/wavefront_synth.c | 2118 | sucker | /* reset that sucker so that it doesn't bother us. */ |
 | https://git.kernel.org/pub/scm/linux/kernel/git/stable/linux.git/tree/sound/pci/ad1889.c | 787 | dammit | ad1889_readl(chip, AD_DMA_DISR);	/* flush, dammit! */ |
 | https://git.kernel.org/pub/scm/linux/kernel/git/stable/linux.git/tree/sound/pci/azt3328.c | 185 | crap | * Config switch, to use ALSA's AC97 layer instead of old custom mixer crap. |
 | https://git.kernel.org/pub/scm/linux/kernel/git/stable/linux.git/tree/sound/pci/azt3328.c | 616 | damn | (13), make damn sure |
 | https://git.kernel.org/pub/scm/linux/kernel/git/stable/linux.git/tree/sound/pci/ens1370.c | 614 | dammit | /* wait for a SAFE time to write addr/data and then do it, dammit */ |
-| https://git.kernel.org/pub/scm/linux/kernel/git/stable/linux.git/tree/sound/pci/es1968.c | 1145 | crap | /* parallel in crap, see maestro reg 0xC [8-11] */ |
 | https://git.kernel.org/pub/scm/linux/kernel/git/stable/linux.git/tree/sound/pci/ens1370.c | 657 | dammit | /* wait for a SAFE time to write addr/data and then do it, dammit */ |
-| https://git.kernel.org/pub/scm/linux/kernel/git/stable/linux.git/tree/sound/pci/ac97/ac97_patch.c | 1311 | BLOODY | WHY CAN'T ANYONE FOLLOW THE BLOODY SPEC?  *sigh* |
+| https://git.kernel.org/pub/scm/linux/kernel/git/stable/linux.git/tree/sound/pci/es1968.c | 1145 | crap | /* parallel in crap, see maestro reg 0xC [8-11] */ |
+| https://git.kernel.org/pub/scm/linux/kernel/git/stable/linux.git/tree/sound/pci/ac97/ac97_patch.c | 1311 | bloody | WHY CAN'T ANYONE FOLLOW THE BLOODY SPEC?  *sigh* |
 | https://git.kernel.org/pub/scm/linux/kernel/git/stable/linux.git/tree/sound/pci/ac97/ac97_patch.c | 3642 | hell | * I have no idea what the hell Reserved does, but on an MSI |
 | https://git.kernel.org/pub/scm/linux/kernel/git/stable/linux.git/tree/sound/pci/ac97/ac97_patch.c | 3644 | shit | * shit may happen. |
 | https://git.kernel.org/pub/scm/linux/kernel/git/stable/linux.git/tree/sound/pci/au88x0/au88x0_core.c | 370 | crap | // FIXME: get rid of this crap. |
-| https://git.kernel.org/pub/scm/linux/kernel/git/stable/linux.git/tree/sound/pci/cs46xx/dsp_spos_scb_lib.c | 206 | SHIT | /* !!!! THIS IS A PIECE OF SHIT MADE BY ME !!! */ |
+| https://git.kernel.org/pub/scm/linux/kernel/git/stable/linux.git/tree/sound/pci/cs46xx/dsp_spos_scb_lib.c | 206 | shit | /* !!!! THIS IS A PIECE OF SHIT MADE BY ME !!! */ |
 | https://git.kernel.org/pub/scm/linux/kernel/git/stable/linux.git/tree/sound/pci/hda/patch_realtek.c | 687 | ass | unsigned int ass, tmp, i; |
 | https://git.kernel.org/pub/scm/linux/kernel/git/stable/linux.git/tree/sound/pci/hda/patch_realtek.c | 694 | ass | ass = spec->cdefine.sku_cfg; |
 | https://git.kernel.org/pub/scm/linux/kernel/git/stable/linux.git/tree/sound/pci/hda/patch_realtek.c | 695 | ass | if (ass == ALC_FIXUP_SKU_IGNORE) |
@@ -352,4 +352,4 @@
 | https://git.kernel.org/pub/scm/linux/kernel/git/stable/linux.git/tree/tools/testing/selftests/powerpc/signal/sig_sc_double_restart.c | 19 | sucker | *  interrupting that sucker on 64bit... |
 
 
-Last updated: 2024-09-29 20:25:32
+Last updated: 2024-09-29 22:17:03

diff --git a/results/COUNT.md b/results/COUNT.md
@@ -1,33 +1,20 @@
 | keyword | count|
 | --- | --- |
-| hell | 72 |
-| damn | 22 |
-| crap | 92 |
-| ass | 49 |
+| hell | 75 |
+| damn | 29 |
+| crap | 95 |
+| ass | 62 |
 | sucker | 14 |
 | piss | 5 |
-| hell | 3 |
-| fuck | 3 |
-| bloody | 2 |
-| shit | 25 |
-| damn | 7 |
+| fuck | 4 |
+| bloody | 6 |
+| shit | 28 |
 | bitch | 6 |
-| shit | 2 |
-| crap | 2 |
-| ass | 13 |
 | dammit | 4 |
 | bullshit | 3 |
-| bastard | 11 |
-| bollocks | 2 |
-| bastard | 2 |
-| bloody | 3 |
-| retard | 2 |
-| retard | 1 |
-| bollocks | 1 |
-| crap | 1 |
-| fuck | 1 |
-| bloody | 1 |
-| shit | 1 |
+| bastard | 13 |
+| bollocks | 3 |
+| retard | 3 |
 
 
-Last updated: 2024-09-29 20:25:32
+Last updated: 2024-09-29 22:17:03
